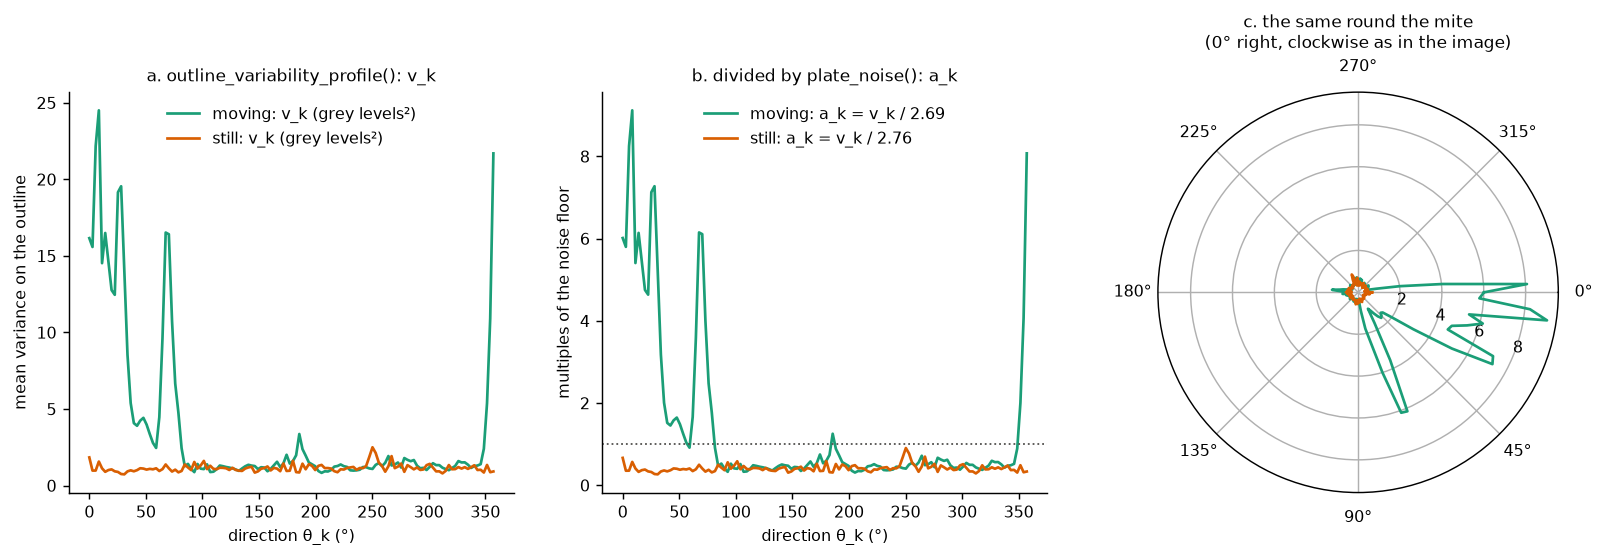
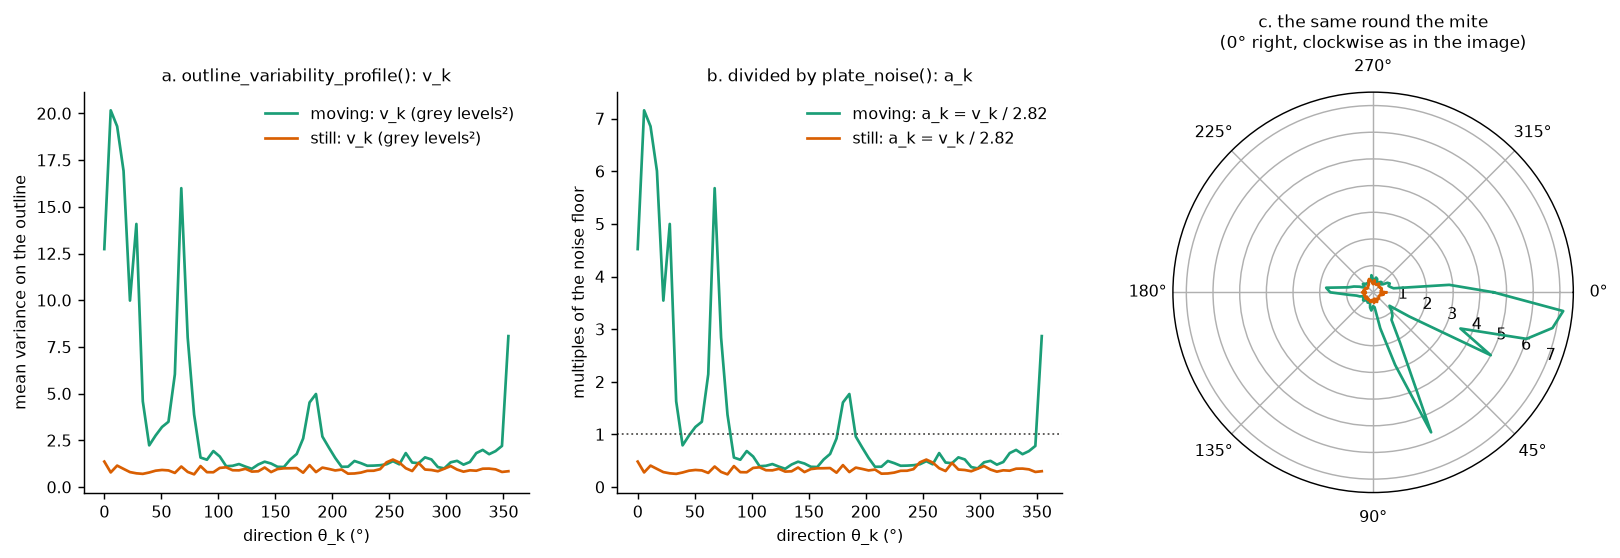
Bring README up to date: restored constants, F0.25, the ground-truth page, its pictures
The walkthrough's figures and the screenshots in docs/images are redrawn
(readme_images.py now copies every walkthrough figure README shows), and the
calibration section points to the user manual's guide.

diff --git a/scripts/readme_images.py b/scripts/readme_images.py
@@ -26,7 +26,7 @@ WIDTH = 1440
 # (shot, top, bottom) of each picture: whole width, rows top to bottom
 README_SHOTS = {
     "app_labels": ("labels", 0, 820),
-    "app_results_top": ("results", 0, 1990),       # the counts, the close calls and the plate map
+    "app_results_top": ("results", 0, 1855),       # the counts, the close calls and the plate map
     "app_zone_top": ("zone", 0, 1060),
     "app_mite": ("mite", 0, 960),
     "app_playback": ("playback", 0, 1080),
@@ -49,8 +49,8 @@ REPORT_SHOTS = {
 # the close-up on a mite's page (left, top, right, bottom), and what it shows
 CLOSE_UPS = (("mite", (124, 380, 504, 762), "mite 7.1 at 25 min: moving (score 4.3)"),
              ("mite_still", (124, 545, 504, 926), "mite 4.1 at 25 min: still (score 0.008)"))
-SHARED = ["walk_1_detection", "walk_2_frames", "walk_5_rays", "walk_6_profile", "walk_7_vector_sum",
-          "speed_memory_storage"]
+SHARED = ["walk_1_detection", "walk_2_frames", "walk_3_stabilizer_effect", "walk_5_rays", "walk_6_profile",
+          "walk_7_vector_sum", "walk_8_threshold", "walk_9_calibration", "walk_10_survival", "speed_memory_storage"]
 
 
 def screenshot(image, path):

diff --git a/README.md b/README.md
@@ -27,7 +27,7 @@ The app runs a test on the Discobox from start to finish, or analyses recordings
 - **Stabilization.** Each mite's patch is held still to a tenth of a pixel before scoring, so a
   shaking plate is not mistaken for a moving mite.
 - **Calibration.** A labelling interface for ground truth by eye, a precision-recall report, the
-  threshold with the best F0.5, and a poke test to check the calls against the mites' response.
+  threshold with the best F0.25, and a poke test to check the calls against the mites' response.
 - **Statistics.** Kaplan–Meier survival with 95 % confidence intervals, LT50 and log-rank tests
   against negative controls, shown in an interactive web interface and written to an Excel workbook.
 - **Testing.** Regression tests compare results, every workbook sheet, figure contents and pixels
@@ -53,7 +53,7 @@ by eye that were not used to set the app's threshold:
 
 - [How it works](#how-it-works): the pipeline, step by step, on real mites
 - [How well it works](#how-well-it-works): the benchmark against the original software
-- [Reports](#reports): the user manual, how it works, the performance report
+- [Reports](#reports): the user manual (with a calibration guide), how it works, step by step, the performance report
 - [Quick start](#quick-start)
 - [User manual](#user-manual): [Live](#live-from-the-discobox) · [Analysis](#analysing-recordings) · [Calibration](#calibration)
 - [Architecture](#architecture) · [Command line](#command-line) · [Files](#where-files-go) · [Tests](#tests) · [References](#references)
@@ -67,11 +67,11 @@ flowchart LR
     A["Find the mites<br/>first frame"] --> B["Cut each mite's<br/>patch, every frame"]
     B --> C["Stabilize<br/>per mite"]
     C --> D["Lamp correction<br/>+ noise floor"]
-    D --> E["128 rays → outline<br/>variance profile"]
+    D --> E["64 rays → outline<br/>variance profile"]
     E --> F["Vector sum<br/>= motion score"]
     F --> G{"score ≥ T ?"}
     G -->|moving / still| H["Death rule →<br/>Kaplan–Meier"]
-    L["Labels by eye"] -.->|"best F0.5"| G
+    L["Labels by eye"] -.->|"best F0.25"| G
 ```
 
 Below, the steps run on real data, a live run of 14 mites with 95 recordings of 90 frames over 15.7 h.
@@ -97,16 +97,16 @@ over the frames (right) shows what changed: a few bright spots where the legs mo
 
 Plate shake is the main source of false movement. A shift of a fifth of a pixel, too small to see, slides the dark edge of every
 mite across its pixels and lights up the whole outline (top left). The stabilizer follows the centre
-of each mite's darkness, frame by frame, and cuts the patch shifted back by it (bilinear). The ring
+of each mite's darkness, frame by frame, and cuts the patch shifted back by it (Lanczos). The ring
 largely disappears, but a moving mite's legs stay (bottom), because only a shift of the whole mite is removed.
 
 ![What stabilizing changes](docs/images/walk_3_stabilizer_effect.png)
 
-### 4. Read the outline along 128 rays
+### 4. Read the outline along 64 rays
 
-Every frame is scaled so that the plate has the same light, which cancels lamp flicker. From the mite's centre, 128 rays
+Every frame is scaled so that the plate has the same light, which cancels lamp flicker. From the mite's centre, 64 rays
 are sampled every 0.5 px. Along each ray the app finds where the body ends (orange) and measures
-the variance over the frames in a ±1.04 px band round that edge. The legs show up as bright blobs on
+the variance over the frames in a ±1.5 px band round that edge. The legs show up as bright blobs on
 the band.
 
 ![Rays, edge and variance](docs/images/walk_5_rays.png)
@@ -114,8 +114,8 @@ the band.
 ### 5. One number per direction, in units of noise
 
 Each direction gets one value: the variance on its stretch of the outline, divided by the noise floor,
-which is the variance of the bare plate at the patch's rim in the same recording. A still mite is flat at about 0.4. The
-moving mite has peaks of up to 9× the noise, all on one side.
+which is the variance of the bare plate at the patch's rim in the same recording. A still mite is flat at about 0.3. The
+moving mite has peaks of up to 7× the noise, all on one side.
 
 ![The outline profile](docs/images/walk_6_profile.png)
 
@@ -143,8 +143,8 @@ score drops tenfold and stays there.
 ### 8. Where the threshold comes from
 
 The threshold is calibrated against labels made by eye. The labelled scores barely overlap (average
-precision 0.999). The app picks the threshold with the best F0.5, which counts a still recording called
-*moving* four times as heavily as the opposite error, because one false "moving" can bring a dead mite back to life
+precision 0.9995). The app picks the threshold with the best F0.25, which counts a still recording called
+*moving* sixteen times as heavily as the opposite error, because one false "moving" can bring a dead mite back to life
 hours after it died.
 
 ![Calibration](docs/images/walk_9_calibration.png)
@@ -158,8 +158,9 @@ death time. Pooled per treatment, that gives Kaplan–Meier survival curves with
 ![Calls, deaths, Kaplan–Meier](docs/images/walk_10_survival.png)
 
 > The constants of the stabilizer and the score (rays, band width, body edge,
-> interpolation, …) were chosen by a 600-trial Optuna search on four labelled datasets, with the mites
-> split into tune and test halves ([`scripts/pipeline_optuna.py`](scripts/pipeline_optuna.py)).
+> interpolation, …) were tested against a 600-trial Optuna search on four labelled datasets, with the mites
+> split into tune and test halves ([`scripts/pipeline_optuna.py`](scripts/pipeline_optuna.py)). The
+> search's constants separated the tune mites better but not the test mites, so the app keeps its own.
 >
 > Every figure in this section is drawn by [`scripts/visual_walkthrough.py`](scripts/visual_walkthrough.py) with the
 > app's own functions; the full walk-through, with the code of each step, is
@@ -208,7 +209,7 @@ Longer write-ups, in [`report/`](report/):
 
 | Report | What it covers |
 |---|---|
-| [User manual](report/1_user_manual.md) | Using the app: a live test on the Discobox, analysing recordings, calibrating the threshold, the files it writes |
+| [User manual](report/1_user_manual.md) | Using the app: a live test on the Discobox, analysing recordings, the files it writes, and a guide to calibrating the threshold: when, with what data, how to read the reports and test the result |
 | [How it works](report/2_how_it_works.md) | What the app computes, with the reasoning: detection, the stabilizer, the motion score, the threshold, survival statistics, calibration |
 | [How it works, step by step on one mite](report/visual_how_it_works.md) | The same pipeline run on real data, with the code of each step and a figure of what it did |
 | [Performance](report/3_performance.md) | The app against the Discobox's original software: calls, time of death, speed, memory, storage (26 October 2026) |
@@ -618,13 +619,13 @@ over the frames of the bare plate at the patch's edge in the same recording (`An
 that is 0, which only frames without noise or a black plate give, the score is left undivided and a
 `NoNoiseWarning` flags it: it is then off the threshold's scale). That needs no other recording, so it holds
 in a live run too. On sample_data the floor is 3.1 to 3.8 grey levels squared. The constants of the score
-and the stabilizer (128 rays of 11.4 px, the body's edge at 0.226 of its darkest, a ±1.04 px outline band, a
-bilinear stabilizer, …) were chosen by an Optuna search on the labelled recordings on 2026-10-27
-(`scripts/pipeline_optuna.py`, `notebooks/pipeline_optuna.ipynb`); they are read from `config.default.yaml`
-and the code, never from a machine's `config.yaml`. The search also divided the score by its outline's mean
-variance to the power 0.491 (`relative`); that was taken out the same day, as it changed no call on the
-labelled recordings. The default threshold (0.074) is the best F0.5 threshold of the poke run (3 s at 30 fps)
-on that scale. A threshold saved before then is on another scale: save one again from a calibration report.
+and the stabilizer (64 rays of 13 px, the body's edge at 0.5 of its darkest, a ±1.5 px outline band, a
+Lanczos stabilizer, …) are read from `config.default.yaml` and the code, never from a machine's `config.yaml`.
+An Optuna search on the labelled recordings chose others on 2026-10-27 (`scripts/pipeline_optuna.py`,
+`notebooks/pipeline_optuna.ipynb`); they separated moving from still better only on the mites they were
+tuned on, and the constants before them were restored on 2026-10-29. The default threshold (0.091) is the
+best threshold of the poke run (3 s at 30 fps) by F0.5 and F0.25 alike. A threshold saved between
+2026-10-27 and 2026-10-29 is on the search's scale: save one again from a calibration report.
 
 Two further normalisations put the scores of a finished run on one scale
 (`classes/scoring/score_normalizer.py`); both keep the scores on about the scale they had.
@@ -649,25 +650,27 @@ In *Calibration* you mark by eye which mites move in each recording and compare 
 1. **Calibration data**: pick *Calibrate the threshold* or *Test the threshold*, then drop the folder, or
    *Calibrate* one of the previous recordings. The mites are found on its first frame; nothing is scored
    until a report is made.
-2. **Ground truth**: zone by zone and recording by recording, the zone's frames of that recording play
-   (once, or in a loop with *Loop* ticked); click each mite to cycle it through *moving*, *still*, *not a
-   mite* (a false detection) and back to unlabelled; clicking on past a *not a mite* you just set brings back
-   the mite's labels. <kbd>↑</kbd>
-   <kbd>↓</kbd> change recording, <kbd>←</kbd> <kbd>→</kbd> change zone. The detector's own call is hidden so
-   it cannot bias you. Every label is saved as it is set, by position in `ground_truth.json` next to the
+2. **Ground truth**: one mite in one recording at a time, its clip playing (once, or in a loop with *Loop*
+   ticked) beside a picture of where its pixels change over the frames. Label it *moving* <kbd>M</kbd>,
+   *still* <kbd>S</kbd>, *not a mite* <kbd>N</kbd> (a false detection, in every recording) or *unlabelled*
+   <kbd>U</kbd>; a label moves on to the mite's next recording, and after its last to the next mite still to
+   label. *Dead from here on* <kbd>D</kbd> labels the mite still in this recording and every later one not
+   labelled yet; another label after *not a mite* brings the mite's labels back. <kbd>←</kbd> <kbd>→</kbd>
+   change recording, <kbd>↑</kbd> <kbd>↓</kbd> change mite, <kbd>P</kbd> plays or pauses. The detector's own
+   call is hidden so it cannot bias you. Every label is saved as it is set, by position in `ground_truth.json` next to the
    recordings, so they survive a change in detector settings.
 3. **Report**: every labelled (mite, recording) is compared with the detector's call there, moving when that
-   recording's score reaches the threshold. *Calibration* suggests the threshold with the largest F0.5 of the
-   calls moving, mite-recording by mite-recording (1.25 × moving called moving over 1.25 × moving called
-   moving + 0.25 × moving called still + still called moving): a still recording called moving costs four
+   recording's score reaches the threshold. *Calibration* suggests the threshold with the largest F0.25 of the
+   calls moving, mite-recording by mite-recording (1.0625 × moving called moving over 1.0625 × moving called
+   moving + 0.0625 × moving called still + still called moving): a still recording called moving costs sixteen
    times a moving one called still, because one such call can bring a dead mite back to life hours after its
    death, while a live mite called still moves again later. It can save the threshold to `config.yaml`. The
    close calls it gets wrong are the ones the results page asks to check by eye (see *Close calls to check by
    eye* above). For the suggested threshold and the one in use it reports the share called right, the moving
-   recordings called still, the still ones called moving, F0.5 and the death-time error: the mean distance,
+   recordings called still, the still ones called moving, F0.25 and the death-time error: the mean distance,
    in recordings, between each mite's death by the detector and by the labels (a mite dies at the recording
    after its last movement), which is reported but not chosen on. Its precision-recall curve marks both
-   thresholds, with the curve of the points as good by F0.5 as the better of them. Its confusion matrix
+   thresholds, with the curve of the points as good by F0.25 as the better of them. Its confusion matrix
    switches between the suggested threshold and the one in use. *Test* shows the confusion matrix at the
    threshold in use, the precision-recall curve with its average precision, and where on the plate the
    errors are. Both show the fraction of mites moving per recording by the ground truth against the
@@ -675,7 +678,9 @@ In *Calibration* you mark by eye which mites move in each recording and compare 
    the outline change between recordings (see *Outline change between recordings* below). The report is the
    one picked on the first page; to see the other, go back and pick it there.
 
-Test a threshold on a different recording from the one it was calibrated on.
+Test a threshold on a different recording from the one it was calibrated on. When to calibrate, what data to
+label, and how to read both reports and decide whether to save are in the
+[user manual, section 4](report/1_user_manual.md#4-calibration-setting-and-checking-the-threshold).
 
 <details>
 <summary><b>The report in detail: wrong calls, pooling, metric choice, calibration.xlsx</b></summary>
@@ -909,5 +914,5 @@ test of the hardware itself.
 2. **Allied Vision, *Vimba X SDK* and *vmbpy*,** the camera's driver and Python API, installed as the
    Discobox's own instructions describe.
 3. Statistics: Kaplan–Meier survival with Greenwood's confidence intervals on the log-log scale, and the
-   log-rank test (`scipy.stats.logrank`); motion-score constants tuned with **Optuna** (Akiba et al.,
+   log-rank test (`scipy.stats.logrank`); the search of the motion-score constants with **Optuna** (Akiba et al.,
    *Optuna: A Next-generation Hyperparameter Optimization Framework*, KDD 2019).
